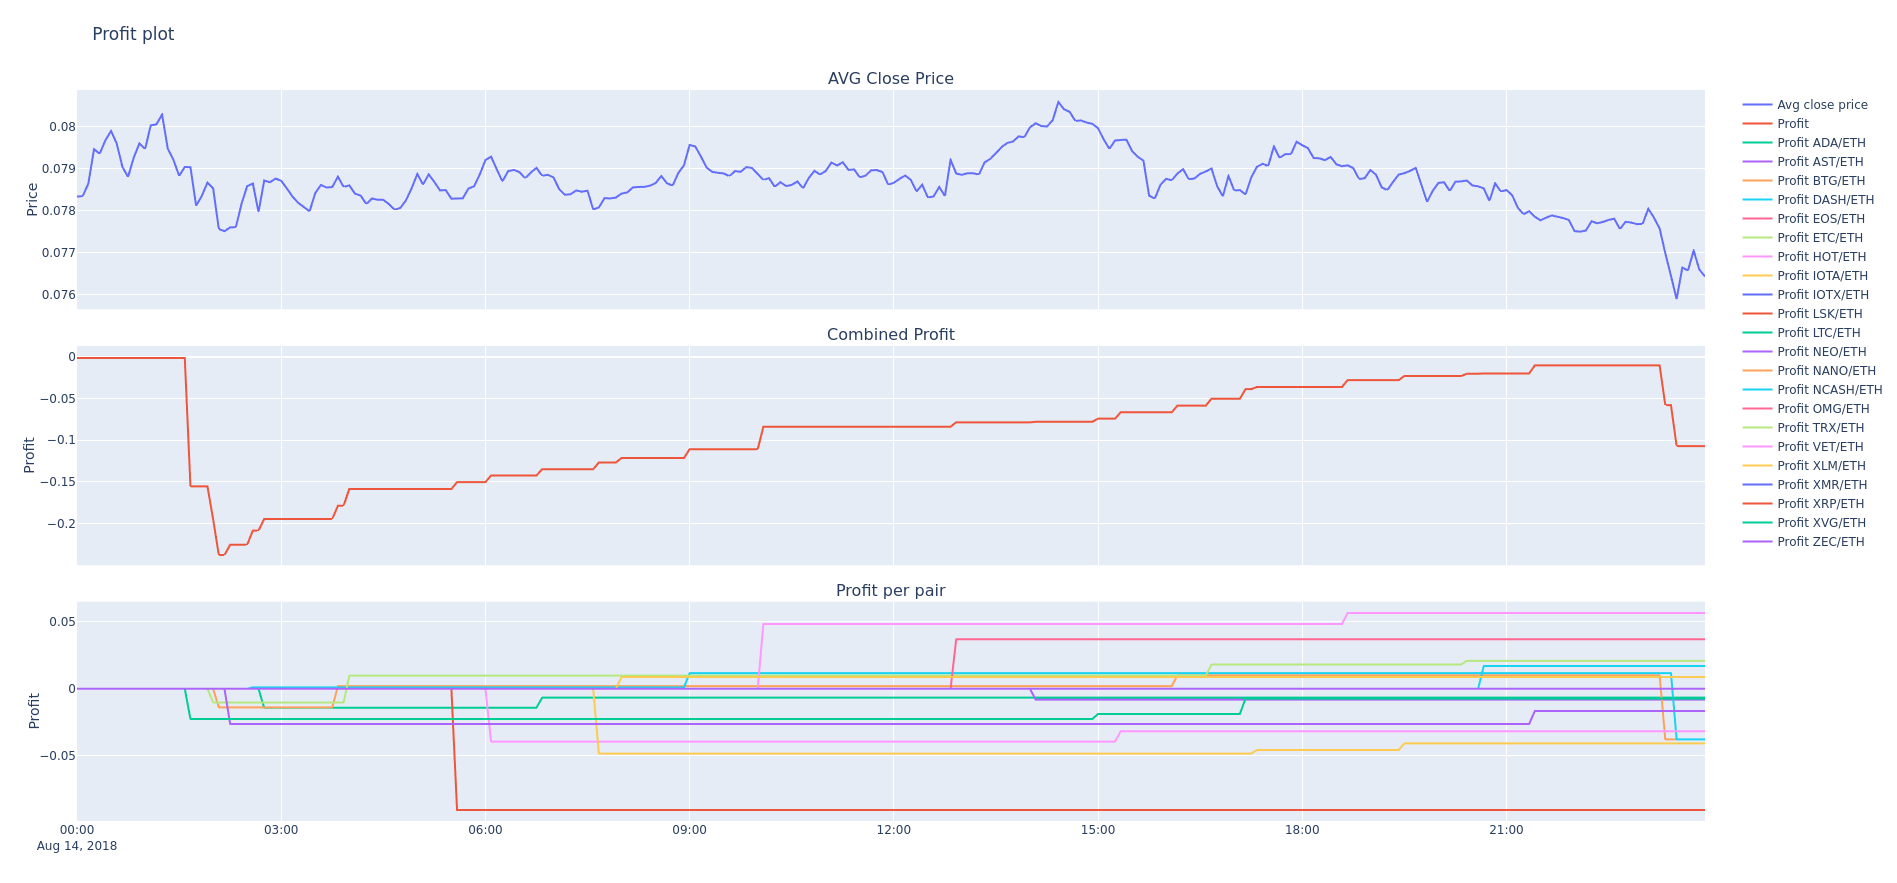
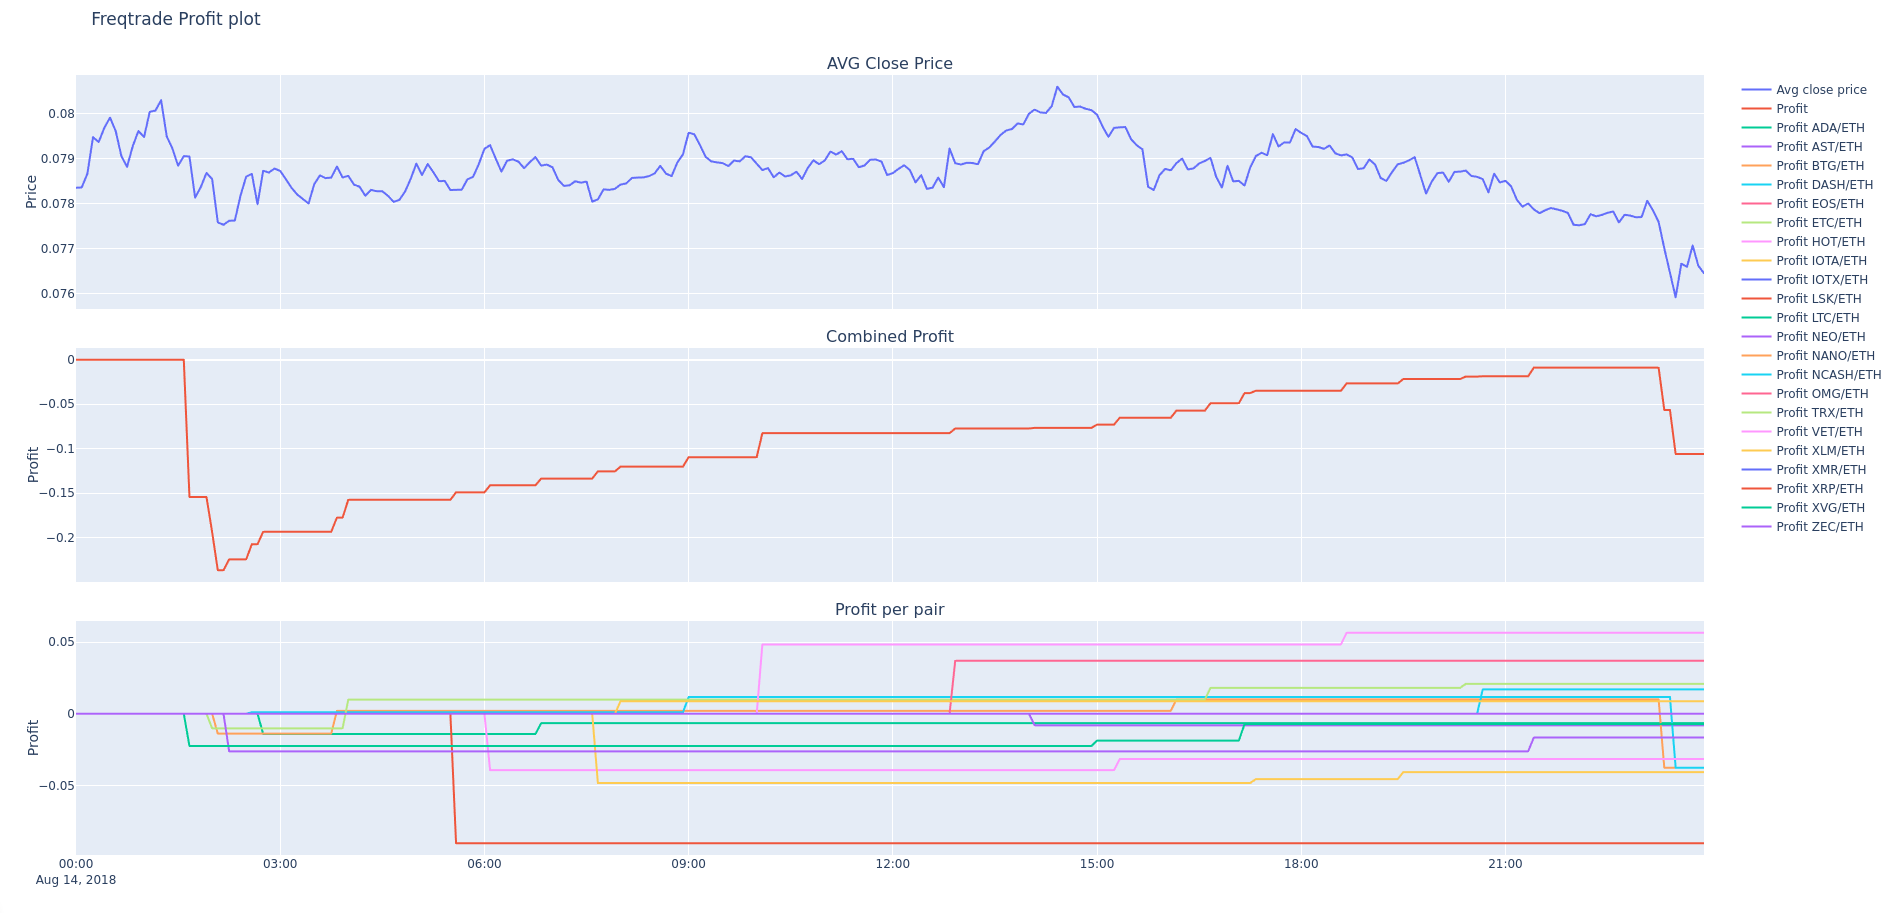
Small fixes

diff --git a/freqtrade/plot/plotting.py b/freqtrade/plot/plotting.py
@@ -278,7 +278,7 @@ def generate_profit_graph(pairs: str, tickers: Dict[str, pd.DataFrame],
                         row_width=[1, 1, 1],
                         vertical_spacing=0.05,
                         subplot_titles=["AVG Close Price", "Combined Profit", "Profit per pair"])
-    fig['layout'].update(title="Profit plot")
+    fig['layout'].update(title="Freqtrade Profit plot")
     fig['layout']['yaxis1'].update(title='Price')
     fig['layout']['yaxis2'].update(title='Profit')
     fig['layout']['yaxis3'].update(title='Profit')
@@ -375,8 +375,8 @@ def plot_profit(config: Dict[str, Any]) -> None:
     """
     plot_elements = init_plotscript(config)
     trades = load_trades(config['trade_source'],
-                         db_url=config.get('db_url'),
-                         exportfilename=config.get('exportfilename'),
+                         db_url=str(config.get('db_url')),
+                         exportfilename=str(config.get('exportfilename')),
                          )
     # Filter trades to relevant pairs
     trades = trades[trades['pair'].isin(plot_elements["pairs"])]

diff --git a/freqtrade/tests/test_plotting.py b/freqtrade/tests/test_plotting.py
@@ -258,7 +258,7 @@ def test_generate_profit_graph():
     fig = generate_profit_graph(pairs, tickers, trades)
     assert isinstance(fig, go.Figure)
 
-    assert fig.layout.title.text == "Profit plot"
+    assert fig.layout.title.text == "Freqtrade Profit plot"
     assert fig.layout.yaxis.title.text == "Price"
     assert fig.layout.yaxis2.title.text == "Profit"
     assert fig.layout.yaxis3.title.text == "Profit"